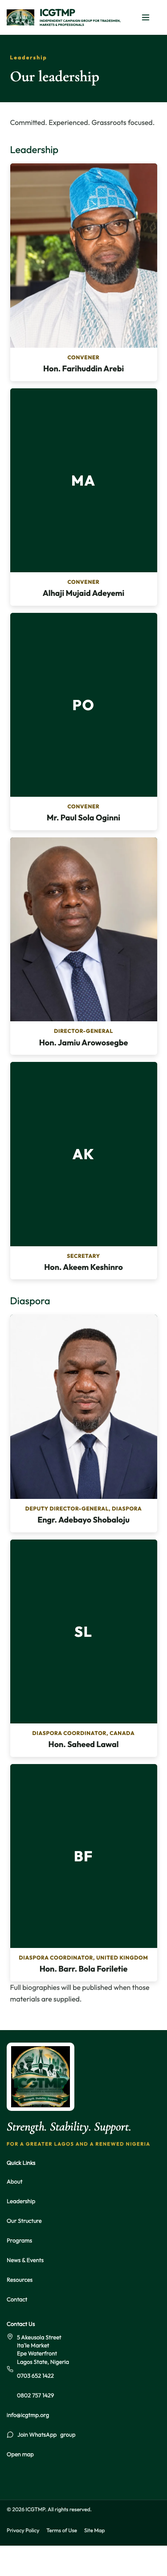
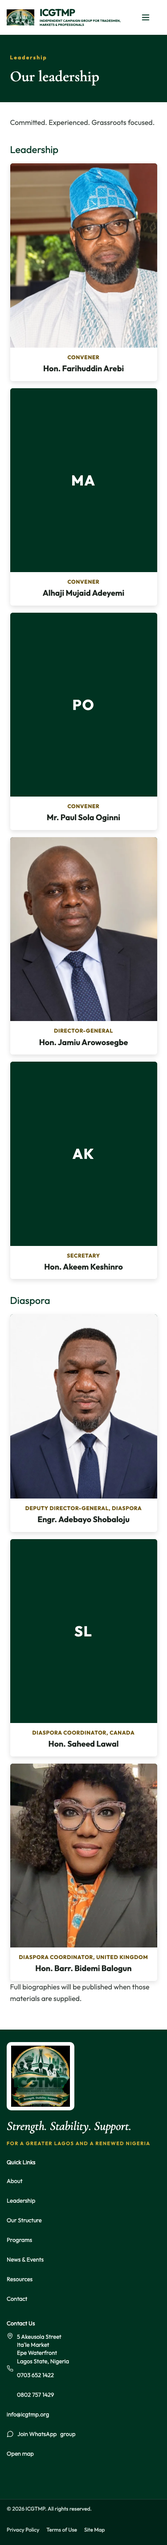
Use Hon. Barr. Bidemi Balogun's portrait for the United Kingdom diaspora card.

diff --git a/src/data/leaders.ts b/src/data/leaders.ts
@@ -99,12 +99,12 @@ export const leaders: Leader[] = [
     photo: '/leaders/saheed-lawal.webp',
   },
   {
-    slug: 'bola-foriletie',
-    name: 'Hon. Barr. Bola Foriletie',
+    slug: 'bidemi-balogun',
+    name: 'Hon. Barr. Bidemi Balogun',
     role: 'Diaspora Coordinator, United Kingdom',
     group: 'diaspora',
     order: 8,
-    photo: '/leaders/bola-foriletie.webp',
+    photo: '/leaders/bidemi-balogun.webp',
   },
 ];
 

diff --git a/CONTENT_NEEDED.md b/CONTENT_NEEDED.md
@@ -15,4 +15,3 @@ These files are not in the site. The cards show a monogram until the portrait is
 - `/leaders/paul-sola-oginni.webp` — Mr. Paul Sola Oginni, Convener
 - `/leaders/akeem-keshinro.webp` — Hon. Akeem Keshinro, Secretary
 - `/leaders/saheed-lawal.webp` — Hon. Saheed Lawal, Diaspora Coordinator, Canada
-- `/leaders/bola-foriletie.webp` — Hon. Barr. Bola Foriletie, Diaspora Coordinator, United Kingdom
